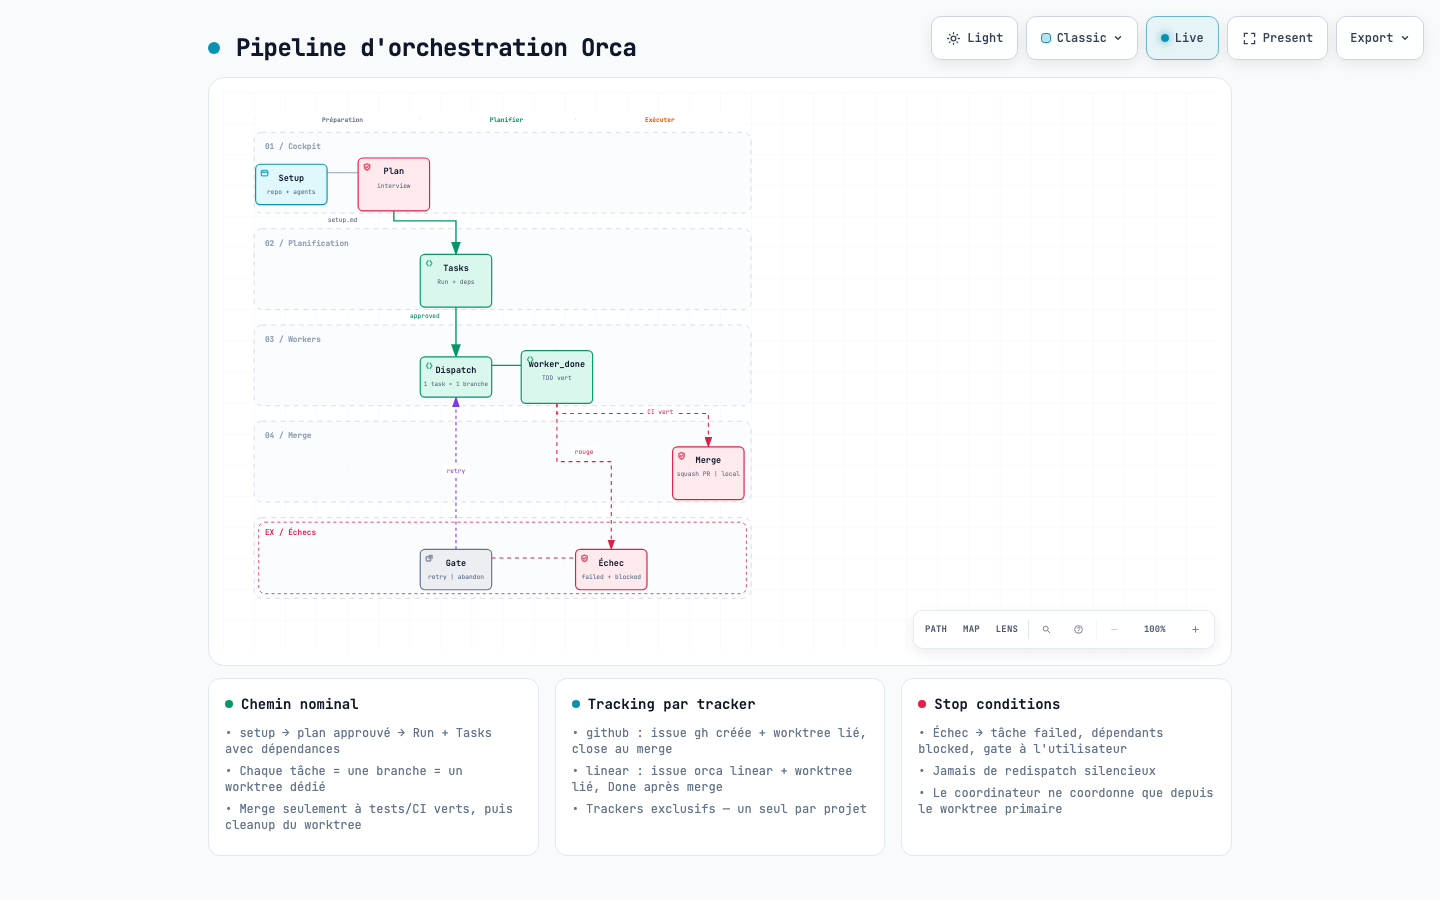
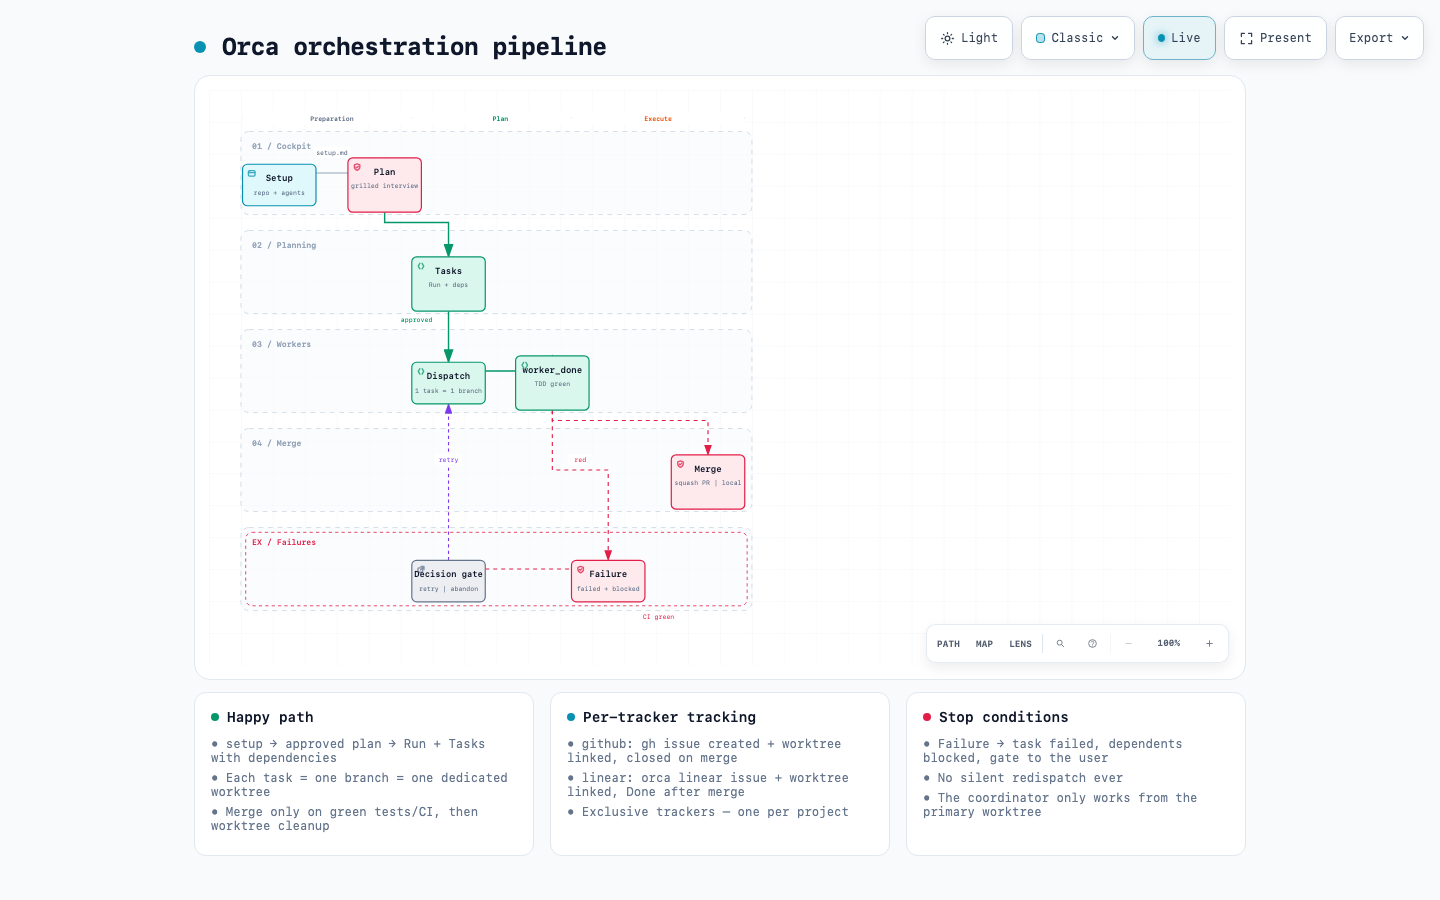
docs: english diagram + PNG export; README embeds the pipeline image

diff --git a/docs/diagrams/orca-pipeline.html b/docs/diagrams/orca-pipeline.html
@@ -4,7 +4,7 @@
   <meta charset="UTF-8">
   <meta name="viewport" content="width=device-width, initial-scale=1.0">
   <meta name="generator" content="archify 2.14.0">
-  <title>Pipeline d&#39;orchestration Orca Diagram</title>
+  <title>Orca orchestration pipeline Diagram</title>
   <script>
     // Resolve the theme before first paint so light-preference users don't
     // see a dark flash. The toolbar script below re-applies with UI state.
@@ -4836,7 +4836,7 @@
     <div class="header">
       <div class="header-row">
         <div class="pulse-dot"></div>
-        <h1>Pipeline d&#39;orchestration Orca</h1>
+        <h1>Orca orchestration pipeline</h1>
       </div>
     </div>
 
@@ -4884,7 +4884,7 @@
     <!-- Main Diagram -->
     <div class="diagram-container" data-detail-level="read">
       <svg viewBox="0 0 1280 720" role="img" aria-labelledby="archify-diagram-title archify-diagram-description" data-animation="trace" data-preset="classic" data-quality-profile="showcase">
-        <title id="archify-diagram-title">Pipeline d&#39;orchestration Orca</title>
+        <title id="archify-diagram-title">Orca orchestration pipeline</title>
         <desc id="archify-diagram-description">A workflow diagram generated by Archify.</desc>
         <!-- Definitions -->
         <defs>
@@ -4913,7 +4913,7 @@
         <text x="54" y="74" class="t-dim" font-size="10" font-weight="600">01 / Cockpit</text>
 
         <rect data-graph-role="structural-frame" data-composition-frame-kind="lane" data-composition-frame-id="lane-1" x="40" y="176" width="640" height="104" rx="10" class="c-lane" stroke-width="1"/>
-        <text x="54" y="198" class="t-dim" font-size="10" font-weight="600">02 / Planification</text>
+        <text x="54" y="198" class="t-dim" font-size="10" font-weight="600">02 / Planning</text>
 
         <rect data-graph-role="structural-frame" data-composition-frame-kind="lane" data-composition-frame-id="lane-2" x="40" y="300" width="640" height="104" rx="10" class="c-lane" stroke-width="1"/>
         <text x="54" y="322" class="t-dim" font-size="10" font-weight="600">03 / Workers</text>
@@ -4923,18 +4923,18 @@
 
         <rect data-graph-role="structural-frame" data-composition-frame-kind="lane" data-composition-frame-id="lane-4" x="40" y="548" width="640" height="104" rx="10" class="c-lane" stroke-width="1"/>
         <rect data-graph-role="structural-frame" data-composition-frame-kind="exception-lane" data-composition-frame-id="lane-4-exception" x="46" y="554" width="628" height="92" rx="8" class="c-security-group" stroke-width="1"/>
-        <text x="54" y="570" class="t-security" font-size="10" font-weight="600">EX / Échecs</text>
+        <text x="54" y="570" class="t-security" font-size="10" font-weight="600">EX / Failures</text>
 
         <!-- Phase headers -->
         <line x1="42" y1="35" x2="266" y2="35" class="a-default" stroke-width="1.1"/>
         <rect x="42" y="27" width="224" height="16" rx="4" class="c-mask"/>
-        <text x="154" y="39" class="t-muted" font-size="8" font-weight="600" text-anchor="middle">Préparation</text>
+        <text x="154" y="39" class="t-muted" font-size="8" font-weight="600" text-anchor="middle">Preparation</text>
         <line x1="254" y1="35" x2="476" y2="35" class="a-emphasis" stroke-width="1.1"/>
         <rect x="254" y="27" width="222" height="16" rx="4" class="c-mask"/>
-        <text x="365" y="39" class="t-backend" font-size="8" font-weight="600" text-anchor="middle">Planifier</text>
+        <text x="365" y="39" class="t-backend" font-size="8" font-weight="600" text-anchor="middle">Plan</text>
         <line x1="454" y1="35" x2="671" y2="35" class="a-dashed" stroke-width="1.1"/>
         <rect x="454" y="27" width="217" height="16" rx="4" class="c-mask"/>
-        <text x="562.5" y="39" class="t-messagebus" font-size="8" font-weight="600" text-anchor="middle">Exécuter</text>
+        <text x="562.5" y="39" class="t-messagebus" font-size="8" font-weight="600" text-anchor="middle">Execute</text>
 
         <!-- Workflow groups -->
 
@@ -4944,14 +4944,14 @@
         <path data-edge-from="plan" data-edge-to="tasks" data-edge-label="approved" data-edge-key="1" data-composition-points="220,153;220,166;300,166;300,209" d="M 220 153 L 220 166 L 300 166 L 300 209" class="a-emphasis" data-animate="edge" style="--step:1" stroke-width="1.8" marker-end="url(#arrowhead-emphasis)"/>
         <path data-edge-from="tasks" data-edge-to="dispatch" data-edge-key="2" data-composition-points="300,277;300,290;300,290;300,341" d="M 300 277 L 300 290 L 300 290 L 300 341" class="a-emphasis" data-animate="edge" style="--step:2" stroke-width="1.8" marker-end="url(#arrowhead-emphasis)"/>
         <path data-edge-from="dispatch" data-edge-to="worker_done" data-edge-key="3" data-composition-points="300,393;300,352;430,352;430,333" d="M 300 393 L 300 352 L 430 352 L 430 333" class="a-emphasis" data-animate="edge" style="--step:3" stroke-width="1.8" marker-end="url(#arrowhead-emphasis)"/>
-        <path data-edge-from="worker_done" data-edge-to="merge" data-edge-label="CI vert" data-edge-key="4" data-composition-points="430,401;430,414;625,414;625,457" d="M 430 401 L 430 414 L 625 414 L 625 457" class="a-security" data-animate="edge" style="--step:4" stroke-width="1.4" marker-end="url(#arrowhead-security)"/>
-        <path data-edge-from="worker_done" data-edge-to="failed" data-edge-label="rouge" data-edge-key="5" data-composition-points="430,401;430,476;500,476;500,589" d="M 430 401 L 430 476 L 500 476 L 500 589" class="a-security" data-animate="edge" style="--step:11" stroke-width="1.4" marker-end="url(#arrowhead-security)"/>
+        <path data-edge-from="worker_done" data-edge-to="merge" data-edge-label="CI green" data-edge-key="4" data-composition-points="430,401;430,414;625,414;625,457" d="M 430 401 L 430 414 L 625 414 L 625 457" class="a-security" data-animate="edge" style="--step:4" stroke-width="1.4" marker-end="url(#arrowhead-security)"/>
+        <path data-edge-from="worker_done" data-edge-to="failed" data-edge-label="red" data-edge-key="5" data-composition-points="430,401;430,476;500,476;500,589" d="M 430 401 L 430 476 L 500 476 L 500 589" class="a-security" data-animate="edge" style="--step:11" stroke-width="1.4" marker-end="url(#arrowhead-security)"/>
         <path data-edge-from="failed" data-edge-to="gate" data-edge-key="6" data-composition-points="500,641;500,600;300,600;300,589" d="M 500 641 L 500 600 L 300 600 L 300 589" class="a-security" data-animate="edge" style="--step:12" stroke-width="1.4" marker-end="url(#arrowhead-security)"/>
         <path data-edge-from="gate" data-edge-to="dispatch" data-edge-label="retry" data-edge-key="7" data-composition-points="300,589;300,476;300,476;300,393" d="M 300 589 L 300 476 L 300 476 L 300 393" class="a-dashed" data-animate="edge" style="--step:12" stroke-width="1.4" marker-end="url(#arrowhead-dashed)"/>
 
         <!-- Nodes -->
-        <g id="node-setup" data-node-id="setup" data-node-label="Setup" tabindex="0" role="button" aria-label="Focus Setup, repo + agents, Cockpit › Préparation" aria-pressed="false" data-node-kind="frontend" data-node-sublabel="repo + agents" data-node-context="Cockpit › Préparation">
-          <title>Setup · repo + agents · Cockpit › Préparation</title>
+        <g id="node-setup" data-node-id="setup" data-node-label="Setup" tabindex="0" role="button" aria-label="Focus Setup, repo + agents, Cockpit › Preparation" aria-pressed="false" data-node-kind="frontend" data-node-sublabel="repo + agents" data-node-context="Cockpit › Preparation">
+          <title>Setup · repo + agents · Cockpit › Preparation</title>
           <rect x="42" y="93" width="92" height="52" rx="6" class="c-mask"/>
           <rect x="42" y="93" width="92" height="52" rx="6" class="c-frontend" data-animate="node" style="--step:0" stroke-width="1.5"/>
           <g aria-hidden="true" data-semantic-sigil="frontend" class="semantic-sigil s-frontend" transform="translate(48 99) scale(0.6875)">
@@ -4964,8 +4964,8 @@
           <text data-detail="context" x="88" y="131" class="t-muted" font-size="8" text-anchor="middle">repo + agents</text>
         </g>
 
-        <g id="node-plan" data-node-id="plan" data-node-label="Plan" tabindex="0" role="button" aria-label="Focus Plan, interview, Cockpit › Préparation" aria-pressed="false" data-node-kind="security" data-node-sublabel="interview" data-node-tag="approbation" data-node-context="Cockpit › Préparation">
-          <title>Plan · interview · Cockpit › Préparation · approbation</title>
+        <g id="node-plan" data-node-id="plan" data-node-label="Plan" tabindex="0" role="button" aria-label="Focus Plan, grilled interview, Cockpit › Preparation" aria-pressed="false" data-node-kind="security" data-node-sublabel="grilled interview" data-node-tag="approval" data-node-context="Cockpit › Preparation">
+          <title>Plan · grilled interview · Cockpit › Preparation · approval</title>
           <rect x="174" y="85" width="92" height="68" rx="6" class="c-mask"/>
           <rect x="174" y="85" width="92" height="68" rx="6" class="c-security" data-animate="node" style="--step:1" stroke-width="1.5"/>
           <g aria-hidden="true" data-semantic-sigil="security" class="semantic-sigil s-security" transform="translate(180 91) scale(0.6875)">
@@ -4973,12 +4973,12 @@
             <path d="m5.8 8 1.5 1.5 3-3"/>
           </g>
           <text data-detail-anchor x="220" y="106" class="t-primary" font-size="11" font-weight="600" text-anchor="middle">Plan</text>
-          <text data-detail="context" x="220" y="123" class="t-muted" font-size="8" text-anchor="middle">interview</text>
-        <text data-detail="fine" x="220" y="141" class="t-security" font-size="7" text-anchor="middle">approbation</text>
+          <text data-detail="context" x="220" y="123" class="t-muted" font-size="8" text-anchor="middle">grilled interview</text>
+        <text data-detail="fine" x="220" y="141" class="t-security" font-size="7" text-anchor="middle">approval</text>
         </g>
 
-        <g id="node-tasks" data-node-id="tasks" data-node-label="Tasks" tabindex="0" role="button" aria-label="Focus Tasks, Run + deps, Planification › Planifier" aria-pressed="false" data-node-kind="backend" data-node-sublabel="Run + deps" data-node-tag="issue gh / TES" data-node-context="Planification › Planifier">
-          <title>Tasks · Run + deps · Planification › Planifier · issue gh / TES</title>
+        <g id="node-tasks" data-node-id="tasks" data-node-label="Tasks" tabindex="0" role="button" aria-label="Focus Tasks, Run + deps, Planning › Plan" aria-pressed="false" data-node-kind="backend" data-node-sublabel="Run + deps" data-node-tag="issue gh / TES" data-node-context="Planning › Plan">
+          <title>Tasks · Run + deps · Planning › Plan · issue gh / TES</title>
           <rect x="254" y="209" width="92" height="68" rx="6" class="c-mask"/>
           <rect x="254" y="209" width="92" height="68" rx="6" class="c-backend" data-animate="node" style="--step:2" stroke-width="1.5"/>
           <g aria-hidden="true" data-semantic-sigil="backend" class="semantic-sigil s-backend" transform="translate(260 215) scale(0.6875)">
@@ -4989,31 +4989,31 @@
         <text data-detail="fine" x="300" y="265" class="t-backend" font-size="7" text-anchor="middle">issue gh / TES</text>
         </g>
 
-        <g id="node-dispatch" data-node-id="dispatch" data-node-label="Dispatch" tabindex="0" role="button" aria-label="Focus Dispatch, 1 task = 1 branche, Workers › Planifier" aria-pressed="false" data-node-kind="backend" data-node-sublabel="1 task = 1 branche" data-node-context="Workers › Planifier">
-          <title>Dispatch · 1 task = 1 branche · Workers › Planifier</title>
+        <g id="node-dispatch" data-node-id="dispatch" data-node-label="Dispatch" tabindex="0" role="button" aria-label="Focus Dispatch, 1 task = 1 branch, Workers › Plan" aria-pressed="false" data-node-kind="backend" data-node-sublabel="1 task = 1 branch" data-node-context="Workers › Plan">
+          <title>Dispatch · 1 task = 1 branch · Workers › Plan</title>
           <rect x="254" y="341" width="92" height="52" rx="6" class="c-mask"/>
           <rect x="254" y="341" width="92" height="52" rx="6" class="c-backend" data-animate="node" style="--step:3" stroke-width="1.5"/>
           <g aria-hidden="true" data-semantic-sigil="backend" class="semantic-sigil s-backend" transform="translate(260 347) scale(0.6875)">
             <path d="M6 3 3 8l3 5M10 3l3 5-3 5"/>
           </g>
           <text data-detail-anchor x="300" y="362" class="t-primary" font-size="11" font-weight="600" text-anchor="middle">Dispatch</text>
-          <text data-detail="context" x="300" y="379" class="t-muted" font-size="7.7" text-anchor="middle">1 task = 1 branche</text>
+          <text data-detail="context" x="300" y="379" class="t-muted" font-size="8" text-anchor="middle">1 task = 1 branch</text>
         </g>
 
-        <g id="node-worker_done" data-node-id="worker_done" data-node-label="worker_done" tabindex="0" role="button" aria-label="Focus worker_done, TDD vert, Workers › Planifier" aria-pressed="false" data-node-kind="backend" data-node-sublabel="TDD vert" data-node-tag="CI vert" data-node-context="Workers › Planifier">
-          <title>worker_done · TDD vert · Workers › Planifier · CI vert</title>
+        <g id="node-worker_done" data-node-id="worker_done" data-node-label="worker_done" tabindex="0" role="button" aria-label="Focus worker_done, TDD green, Workers › Plan" aria-pressed="false" data-node-kind="backend" data-node-sublabel="TDD green" data-node-tag="CI green" data-node-context="Workers › Plan">
+          <title>worker_done · TDD green · Workers › Plan · CI green</title>
           <rect x="384" y="333" width="92" height="68" rx="6" class="c-mask"/>
           <rect x="384" y="333" width="92" height="68" rx="6" class="c-backend" data-animate="node" style="--step:4" stroke-width="1.5"/>
           <g aria-hidden="true" data-semantic-sigil="backend" class="semantic-sigil s-backend" transform="translate(390 339) scale(0.6875)">
             <path d="M6 3 3 8l3 5M10 3l3 5-3 5"/>
           </g>
           <text data-detail-anchor x="430" y="354" class="t-primary" font-size="11" font-weight="600" text-anchor="middle">worker_done</text>
-          <text data-detail="context" x="430" y="371" class="t-muted" font-size="8" text-anchor="middle">TDD vert</text>
-        <text data-detail="fine" x="430" y="389" class="t-backend" font-size="7" text-anchor="middle">CI vert</text>
+          <text data-detail="context" x="430" y="371" class="t-muted" font-size="8" text-anchor="middle">TDD green</text>
+        <text data-detail="fine" x="430" y="389" class="t-backend" font-size="7" text-anchor="middle">CI green</text>
         </g>
 
-        <g id="node-merge" data-node-id="merge" data-node-label="Merge" tabindex="0" role="button" aria-label="Focus Merge, squash PR | local, Merge › Exécuter" aria-pressed="false" data-node-kind="security" data-node-sublabel="squash PR | local" data-node-tag="release + rm" data-node-context="Merge › Exécuter">
-          <title>Merge · squash PR | local · Merge › Exécuter · release + rm</title>
+        <g id="node-merge" data-node-id="merge" data-node-label="Merge" tabindex="0" role="button" aria-label="Focus Merge, squash PR | local, Merge › Execute" aria-pressed="false" data-node-kind="security" data-node-sublabel="squash PR | local" data-node-tag="release + rm" data-node-context="Merge › Execute">
+          <title>Merge · squash PR | local · Merge › Execute · release + rm</title>
           <rect x="579" y="457" width="92" height="68" rx="6" class="c-mask"/>
           <rect x="579" y="457" width="92" height="68" rx="6" class="c-security" data-animate="node" style="--step:5" stroke-width="1.5"/>
           <g aria-hidden="true" data-semantic-sigil="security" class="semantic-sigil s-security" transform="translate(585 463) scale(0.6875)">
@@ -5025,34 +5025,34 @@
         <text data-detail="fine" x="625" y="513" class="t-security" font-size="7" text-anchor="middle">release + rm</text>
         </g>
 
-        <g id="node-failed" data-node-id="failed" data-node-label="Échec" tabindex="0" role="button" aria-label="Focus Échec, failed + blocked, Échecs › Exécuter" aria-pressed="false" data-node-kind="security" data-node-sublabel="failed + blocked" data-node-context="Échecs › Exécuter">
-          <title>Échec · failed + blocked · Échecs › Exécuter</title>
+        <g id="node-failed" data-node-id="failed" data-node-label="Failure" tabindex="0" role="button" aria-label="Focus Failure, failed + blocked, Failures › Execute" aria-pressed="false" data-node-kind="security" data-node-sublabel="failed + blocked" data-node-context="Failures › Execute">
+          <title>Failure · failed + blocked · Failures › Execute</title>
           <rect x="454" y="589" width="92" height="52" rx="6" class="c-mask"/>
           <rect x="454" y="589" width="92" height="52" rx="6" class="c-security" data-animate="node" style="--step:12" stroke-width="1.5"/>
           <g aria-hidden="true" data-semantic-sigil="security" class="semantic-sigil s-security" transform="translate(460 595) scale(0.6875)">
             <path d="M8 2.2 13 4v3.5c0 3.1-1.8 5.4-5 6.5-3.2-1.1-5-3.4-5-6.5V4Z"/>
             <path d="m5.8 8 1.5 1.5 3-3"/>
           </g>
-          <text data-detail-anchor x="500" y="610" class="t-primary" font-size="11" font-weight="600" text-anchor="middle">Échec</text>
+          <text data-detail-anchor x="500" y="610" class="t-primary" font-size="11" font-weight="600" text-anchor="middle">Failure</text>
           <text data-detail="context" x="500" y="627" class="t-muted" font-size="8" text-anchor="middle">failed + blocked</text>
         </g>
 
-        <g id="node-gate" data-node-id="gate" data-node-label="Gate" tabindex="0" role="button" aria-label="Focus Gate, retry | abandon, Échecs › Planifier" aria-pressed="false" data-node-kind="external" data-node-sublabel="retry | abandon" data-node-context="Échecs › Planifier">
-          <title>Gate · retry | abandon · Échecs › Planifier</title>
+        <g id="node-gate" data-node-id="gate" data-node-label="Decision gate" tabindex="0" role="button" aria-label="Focus Decision gate, retry | abandon, Failures › Plan" aria-pressed="false" data-node-kind="external" data-node-sublabel="retry | abandon" data-node-context="Failures › Plan">
+          <title>Decision gate · retry | abandon · Failures › Plan</title>
           <rect x="254" y="589" width="92" height="52" rx="6" class="c-mask"/>
           <rect x="254" y="589" width="92" height="52" rx="6" class="c-external" data-animate="node" style="--step:12" stroke-width="1.5"/>
           <g aria-hidden="true" data-semantic-sigil="external" class="semantic-sigil s-external" transform="translate(260 595) scale(0.6875)">
             <rect x="2.5" y="5" width="8.5" height="8" rx="1.5"/>
             <path d="M8 2.5h5.5V8M13.5 2.5 7.5 8.5"/>
           </g>
-          <text data-detail-anchor x="300" y="610" class="t-primary" font-size="11" font-weight="600" text-anchor="middle">Gate</text>
+          <text data-detail-anchor x="300" y="610" class="t-primary" font-size="10.7" font-weight="600" text-anchor="middle">Decision gate</text>
           <text data-detail="context" x="300" y="627" class="t-muted" font-size="8" text-anchor="middle">retry | abandon</text>
         </g>
 
         <!-- Edge labels -->
         <g data-detail="context" data-edge-from="setup" data-edge-to="plan" data-edge-label="setup.md" data-edge-key="0">
-          <rect x="129.8" y="157" width="48.4" height="14" rx="3" class="c-mask"/>
-          <text x="154" y="167" class="t-muted" font-size="8" text-anchor="middle">setup.md</text>
+          <rect x="129.8" y="71" width="48.4" height="14" rx="3" class="c-mask"/>
+          <text x="154" y="81" class="t-muted" font-size="8" text-anchor="middle">setup.md</text>
         </g>
         <g data-detail="context" data-edge-from="plan" data-edge-to="tasks" data-edge-label="approved" data-edge-key="1">
           <rect x="235.8" y="281" width="48.4" height="14" rx="3" class="c-mask"/>
@@ -5060,18 +5060,18 @@
         </g>
 
 
-        <g data-detail="context" data-edge-from="worker_done" data-edge-to="merge" data-edge-label="CI vert" data-edge-key="4">
-          <rect x="541.2" y="405" width="43.6" height="14" rx="3" class="c-mask"/>
-          <text x="563" y="415" class="t-security" font-size="8" text-anchor="middle">CI vert</text>
+        <g data-detail="context" data-edge-from="worker_done" data-edge-to="merge" data-edge-label="CI green" data-edge-key="4">
+          <rect x="538.8" y="653" width="48.4" height="14" rx="3" class="c-mask"/>
+          <text x="563" y="663" class="t-security" font-size="8" text-anchor="middle">CI green</text>
         </g>
-        <g data-detail="context" data-edge-from="worker_done" data-edge-to="failed" data-edge-label="rouge" data-edge-key="5">
-          <rect x="448" y="456" width="34" height="14" rx="3" class="c-mask"/>
-          <text x="465" y="466" class="t-security" font-size="8" text-anchor="middle">rouge</text>
+        <g data-detail="context" data-edge-from="worker_done" data-edge-to="failed" data-edge-label="red" data-edge-key="5">
+          <rect x="450" y="456" width="30" height="14" rx="3" class="c-mask"/>
+          <text x="465" y="466" class="t-security" font-size="8" text-anchor="middle">red</text>
         </g>
 
         <g data-detail="context" data-edge-from="gate" data-edge-to="dispatch" data-edge-label="retry" data-edge-key="7">
-          <rect x="283" y="480" width="34" height="14" rx="3" class="c-mask"/>
-          <text x="300" y="490" class="t-database" font-size="8" text-anchor="middle">retry</text>
+          <rect x="283" y="456" width="34" height="14" rx="3" class="c-mask"/>
+          <text x="300" y="466" class="t-database" font-size="8" text-anchor="middle">retry</text>
         </g>
 
         <!-- Legend -->
@@ -5262,24 +5262,24 @@
       <div class="card">
         <div class="card-header">
           <div class="card-dot emerald"></div>
-          <h3>Chemin nominal</h3>
+          <h3>Happy path</h3>
         </div>
         <ul>
-          <li>&bull; setup → plan approuvé → Run + Tasks avec dépendances</li>
-          <li>&bull; Chaque tâche = une branche = un worktree dédié</li>
-          <li>&bull; Merge seulement à tests/CI verts, puis cleanup du worktree</li>
+          <li>&bull; setup → approved plan → Run + Tasks with dependencies</li>
+          <li>&bull; Each task = one branch = one dedicated worktree</li>
+          <li>&bull; Merge only on green tests/CI, then worktree cleanup</li>
         </ul>
       </div>
 
       <div class="card">
         <div class="card-header">
           <div class="card-dot cyan"></div>
-          <h3>Tracking par tracker</h3>
+          <h3>Per-tracker tracking</h3>
         </div>
         <ul>
-          <li>&bull; github : issue gh créée + worktree lié, close au merge</li>
-          <li>&bull; linear : issue orca linear + worktree lié, Done après merge</li>
-          <li>&bull; Trackers exclusifs — un seul par projet</li>
+          <li>&bull; github: gh issue created + worktree linked, closed on merge</li>
+          <li>&bull; linear: orca linear issue + worktree linked, Done after merge</li>
+          <li>&bull; Exclusive trackers — one per project</li>
         </ul>
       </div>
 
@@ -5289,9 +5289,9 @@
           <h3>Stop conditions</h3>
         </div>
         <ul>
-          <li>&bull; Échec → tâche failed, dépendants blocked, gate à l&#39;utilisateur</li>
-          <li>&bull; Jamais de redispatch silencieux</li>
-          <li>&bull; Le coordinateur ne coordonne que depuis le worktree primaire</li>
+          <li>&bull; Failure → task failed, dependents blocked, gate to the user</li>
+          <li>&bull; No silent redispatch ever</li>
+          <li>&bull; The coordinator only works from the primary worktree</li>
         </ul>
       </div>
     </div>

diff --git a/README.md b/README.md
@@ -24,8 +24,12 @@ npx skills add adamelhirch/orca-skills
 ```
 
 An interactive diagram of the pipeline (open in a browser) lives at
-[`docs/diagrams/orca-pipeline.html`](docs/diagrams/orca-pipeline.html) — the main path, the
-tracker mirror, and the failure gate.
+[`docs/diagrams/orca-pipeline.html`](docs/diagrams/orca-pipeline.html), with a PNG export
+([`docs/diagrams/orca-pipeline.png`](docs/diagrams/orca-pipeline.png)):
+
+![Orca orchestration pipeline](docs/diagrams/orca-pipeline.png)
+
+The diagram shows the main path, the per-tracker mirror, and the failure gate.
 
 ## Skills
 
